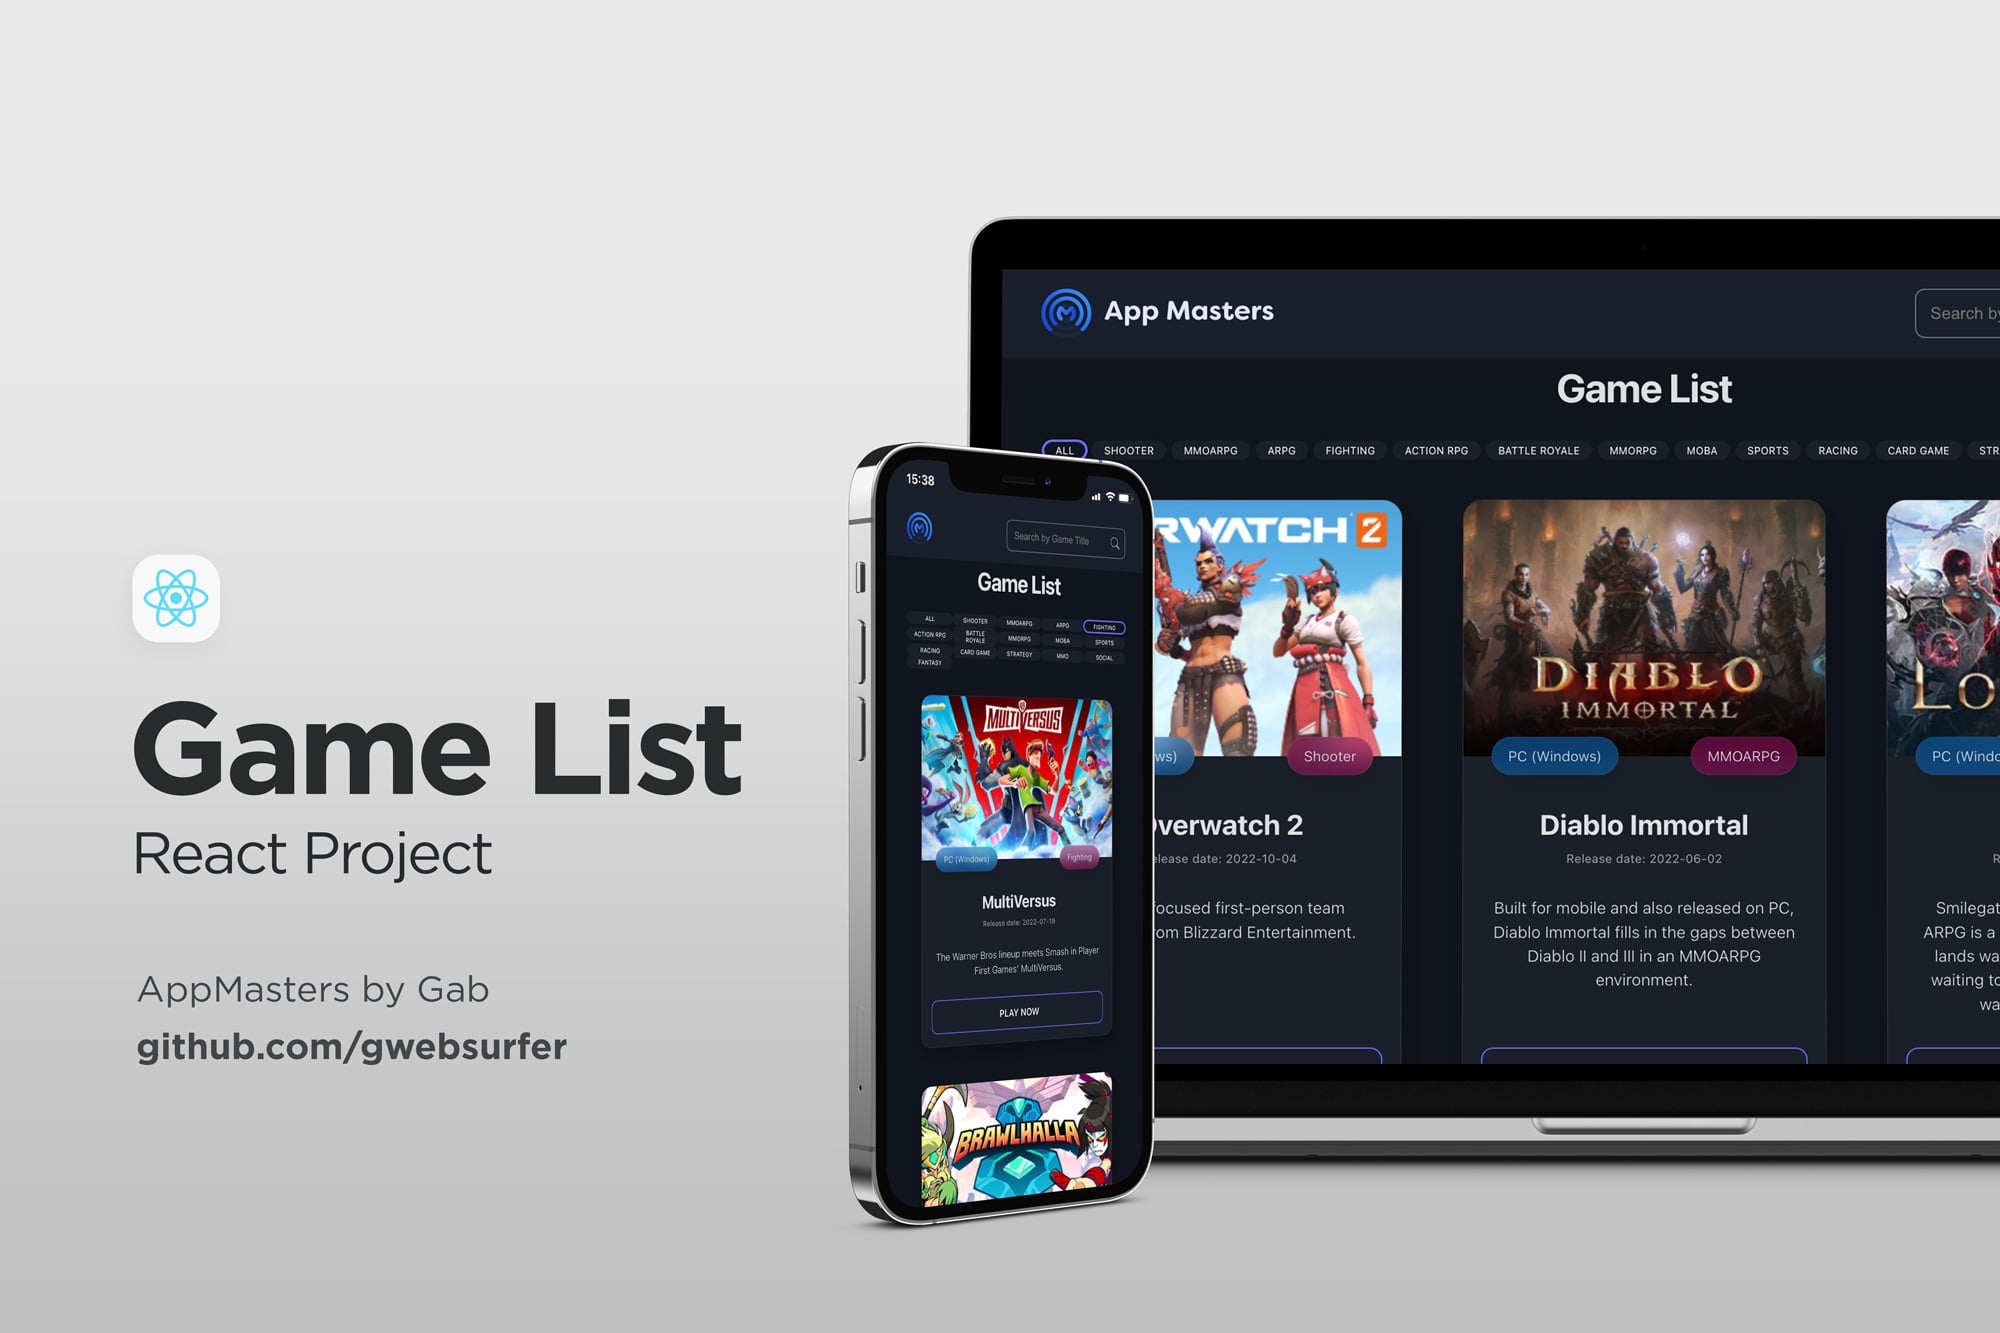
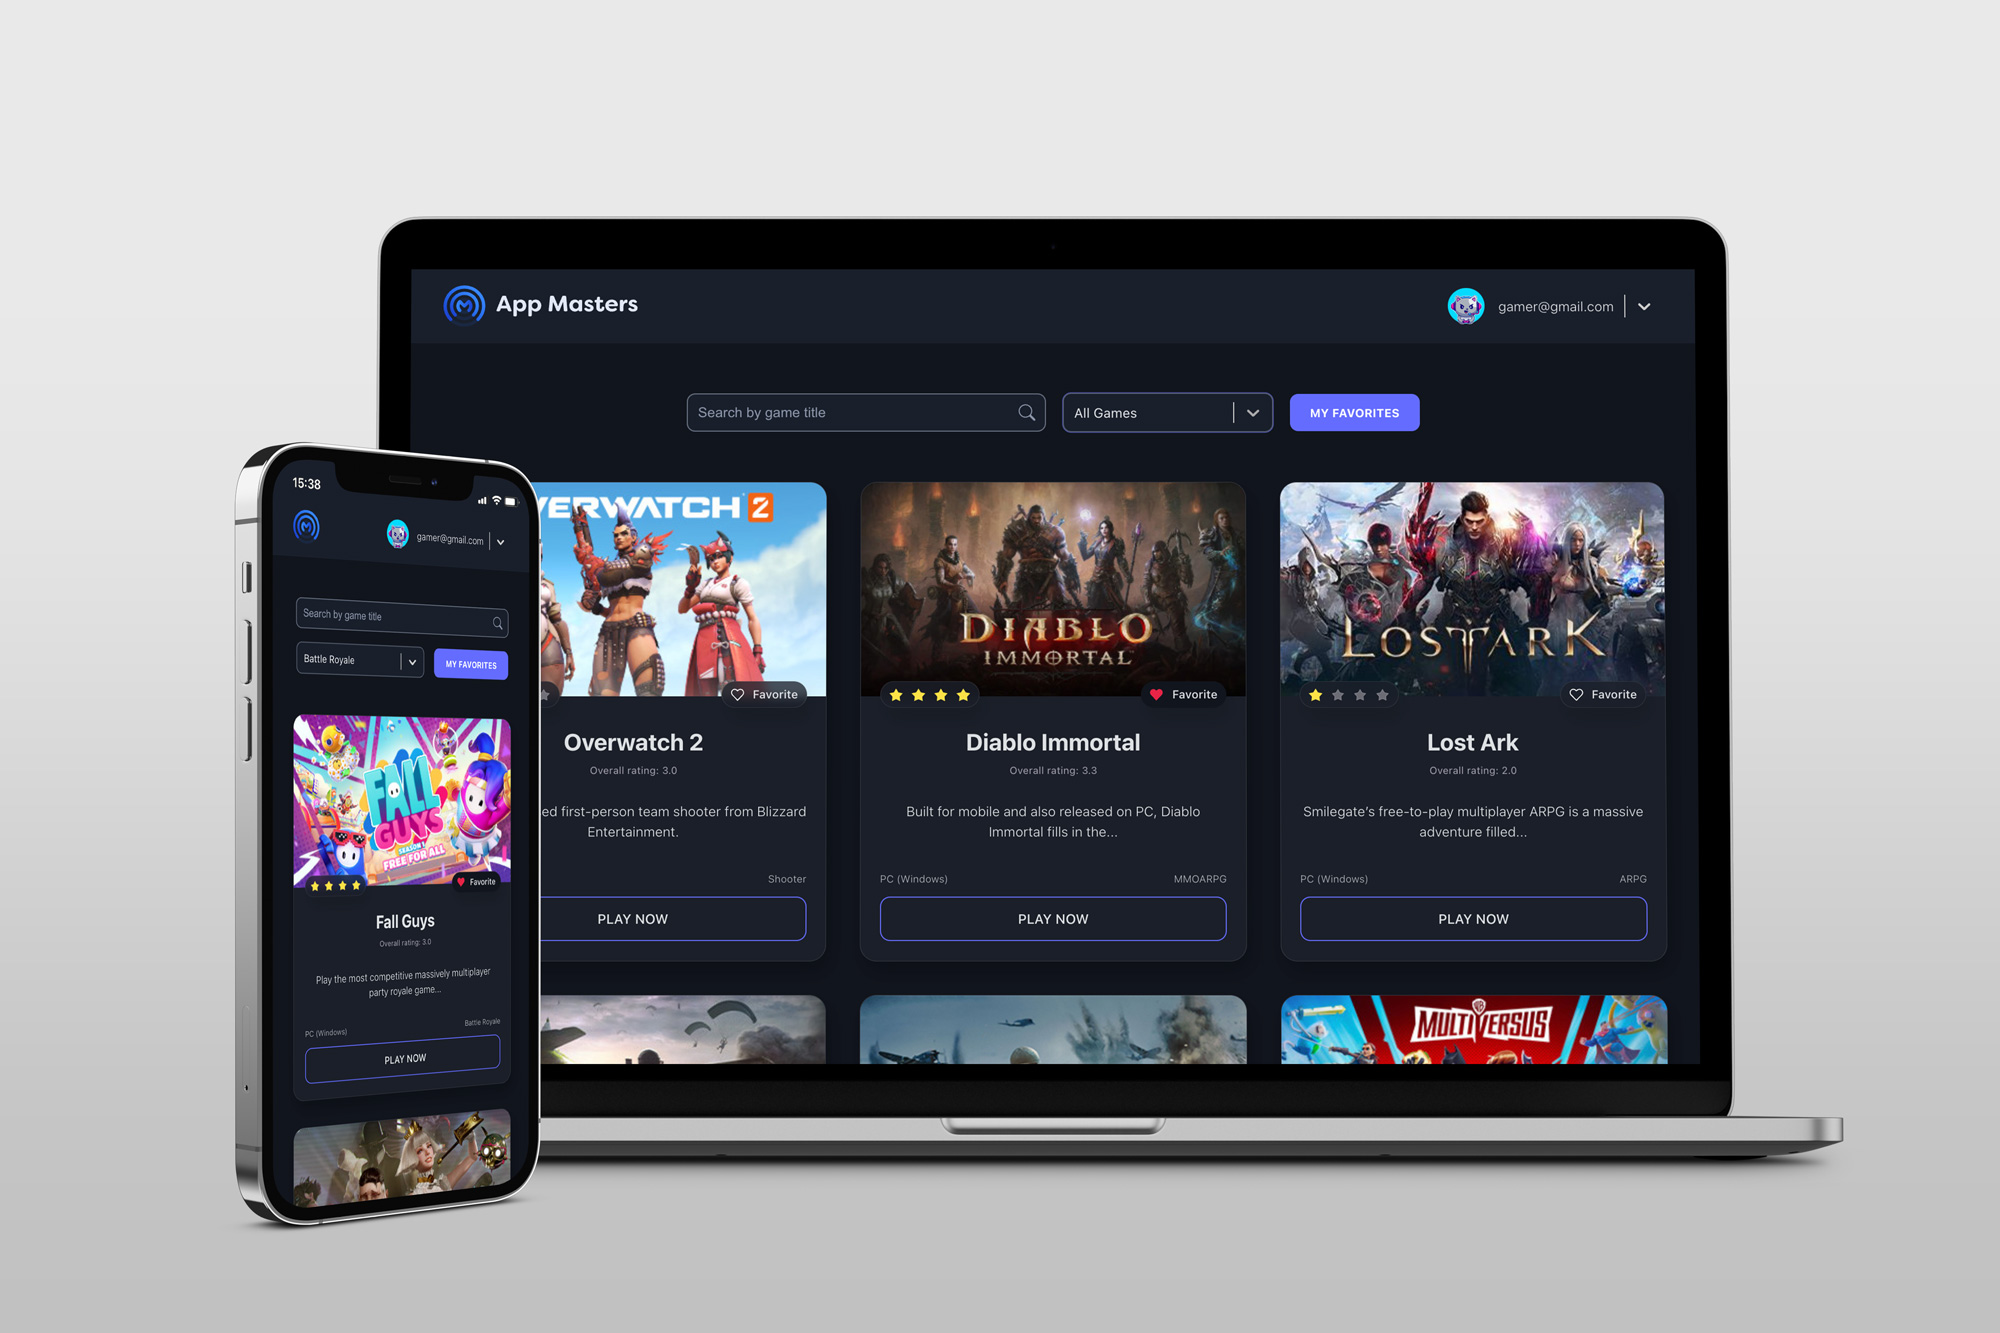
style: correct colors and sizes

diff --git a/src/components/GameList.jsx b/src/components/GameList.jsx
@@ -1,9 +1,12 @@
-import { useEffect, useState } from 'react';
+import { useCallback, useEffect, useState } from 'react';
+import { useNavigate } from 'react-router-dom';
 import Select, { components } from 'react-select';
 import { getDoc, doc, setDoc } from "firebase/firestore";
 import { auth, db } from "../services/firebaseConfig";
 import { NavBar } from './NavBar';
 import { Card } from "./Card";
+import { Button } from './Button';
+import { Footer } from './Footer';
 import searchIcon from "../assets/search.svg";
 import './GameList.css'
 
@@ -11,31 +14,33 @@ export const GameList = ({ gameList }) => {
 
   const [isUserLoggedIn, setIsUserLoggedIn] = useState(false);
   const [searchTerm, setSearchTerm] = useState('');
-  const [selectedGenre, setSelectedGenre] = useState('All');
+  const [selectedGenre, setSelectedGenre] = useState({ value: 'All Games', label: 'All Games' });
   const [filteredData, setFilteredData] = useState(gameList);
   const [userData, setUserData] = useState(null);
   const [userDocId, setUserDocId] = useState(null);
+  const [favoritesMode, setFavoritesMode] = useState(false);
+  const navigate = useNavigate(); 
 
   const colourStyles = {
     control: (styles, state) => ({ 
       ...styles, 
-      width: '160px',
+      width: '200px',
       backgroundColor: 'rgb(26, 31, 43)',
       color: 'rgba(246, 248, 251, 0.87)',
       fontSize: '0.8rem',
-      fontWeight: 400,
+      fontWeight: '400',
       boxShadow: state.isFocused ? '0 0 0 1px rgb(100, 108, 255)' : '',
       border: '1px solid rgba(138, 148, 168, 0.5)',
       borderRadius: '0.5rem',
     }),
     option: (base, state) => ({
       ...base,
-      color: state.isFocused ? 'rgb(255, 255, 255)' : 'rgba(246, 248, 251, 0.87)',
-      backgroundColor: state.isFocused ? 'rgba(26, 31, 43, 1)' : 'rgba(26, 31, 43, 0.7)',
+      color: state.isDisabled ? 'rgba(246, 248, 251, 0.4)' : 'rgba(246, 248, 251, 0.87)' && state.isFocused ? 'rgb(255, 255, 255)' : 'rgba(246, 248, 251, 0.87)',
+      backgroundColor: state.isFocused ? 'rgb(17, 21, 29)' : 'rgba(26, 31, 43, 0.7)',
       borderBottom: '0.05rem solid rgba(246, 248, 251, 0.05)',
-      cursor: 'pointer',
-      fontSize: '0.8rem',
-      fontWeight: 400,
+      cursor: state.isDisabled ? 'default' : 'pointer',
+      fontSize: state.isDisabled ? '0.6rem' : '0.8rem',
+      fontWeight: '400',
     }),
     singleValue: (styles) => ({
       ...styles,
@@ -47,7 +52,7 @@ export const GameList = ({ gameList }) => {
     }),
   };
 
-  const uniqueGenres = ['All Games', ...new Set(gameList?.map((game) => game.genre))];
+  const uniqueGenres = [...new Set(gameList?.map((game) => game.genre))];
 
   const genreCount = {};
   gameList.forEach((game) => {
@@ -60,40 +65,71 @@ export const GameList = ({ gameList }) => {
 
   genreCount['All Games'] = gameList.length;
 
-  const genreOptions = uniqueGenres.map(genre => ({ 
-    value: genre, 
-    label: genre,
-  }));
+  const genreOptions = [
+    { value: 'All Games', label: 'All Games' },
+    { value: '', label: 'GENRE LIST', isDisabled: true },
+    ...uniqueGenres.map(genre => ({ value: genre, label: genre })),
+  ];  
 
   const CustomOption = ({ data, ...props }) => (
     <components.Option {...props}>
       <div style={{ display: 'flex', justifyContent: 'space-between' }}>
         {data.label}
+        {data.isDisabled ? null : (
         <span style={{ backgroundColor: 'rgb(100, 108, 255)', borderRadius: '4px', padding: '0 5px' }}>
           {genreCount[data.value]}
         </span>
+        )}
       </div>
     </components.Option>
   );
 
   const genreFilter = (selectedOption) => {
-    if (selectedOption.value === 'All Games') {
-      setFilteredData(gameList);
-    } else {
-      setFilteredData(gameList.filter((game) => game.genre === selectedOption.value))
+    let filteredGames = gameList;
+    
+    if (selectedOption.value !== 'All Games') {
+      filteredGames = filteredGames.filter((game) => game.genre === selectedOption.value);
     }
+    
+    if (favoritesMode) {
+      filteredGames = filteredGames.filter((game) => userData.isFavorite.includes(game.id));
+    }
+    
+    setFilteredData(filteredGames);
     setSelectedGenre(selectedOption);
+    filterData();
   };
 
+  const filterData = useCallback(() => {
+    let filteredGames = gameList;
+  
+    if (searchTerm) {
+      filteredGames = filteredGames.filter((game) => game.title.toLowerCase().includes(searchTerm.toLowerCase()));
+    }
+  
+    if (selectedGenre.value !== 'All Games') {
+      filteredGames = filteredGames.filter((game) => game.genre === selectedGenre.value);
+    }
+  
+    if (favoritesMode && userData) {
+      filteredGames = filteredGames.filter((game) => userData.isFavorite.includes(game.id));
+    }
+  
+    setFilteredData(filteredGames);
+  }, [favoritesMode, userData, gameList, selectedGenre.value, searchTerm]);
+  
   const handleSearchChange = (e) => {
     const searchTerm = e.target.value;
     setSearchTerm(searchTerm);
   };
+
+  useEffect(() => {
+    filterData();
+  }, [filterData, gameList, searchTerm]);
   
   const checkUserDoc = async () => {
     const userUID = auth?.currentUser?.uid;
     const userRef = doc(db, "users", userUID);
-
     const userSnapshot = await getDoc(userRef);
 
     if (userSnapshot.exists()) {
@@ -125,20 +161,13 @@ export const GameList = ({ gameList }) => {
     return () => unsubscribe();
   }, []);
 
-  useEffect(() => {
-    const filteredResults = gameList?.filter((game) =>
-      game.title.toLowerCase().includes(searchTerm.toLowerCase())
-    );
-    setFilteredData(filteredResults);
-  }, [gameList, searchTerm]);
-
   return (
     <>
       <NavBar setIsUserLoggedIn={setIsUserLoggedIn} />
 
       <div className="search-filter">
         <div className="search-bar">
-          <input type="text" placeholder='Search by game title' onKeyDown={handleSearchChange} />
+          <input type="text" placeholder='Search by game title' onChange={handleSearchChange} />
           <img className='search-icon' src={searchIcon} alt="" />
         </div>
 
@@ -151,8 +180,20 @@ export const GameList = ({ gameList }) => {
             isSearchable={false}
             placeholder='Genre'
             components={{ Option: CustomOption }}
+            isOptionDisabled={(option) => option.isDisabled}
           />
         </div>
+
+        <Button classType="show-favorites-btn" onClickFunction={() => { 
+          if (!isUserLoggedIn) {
+            navigate('/auth')
+          } else {
+            setFavoritesMode(!favoritesMode);
+            filterData();
+          }
+        }}>
+          {favoritesMode ? 'Show All' : 'My Favorites'}
+        </Button>
       </div>
       
       <div className='gameList'>
@@ -168,6 +209,8 @@ export const GameList = ({ gameList }) => {
         ))}
         </div>
       </div>
+
+      <Footer />
     </>
   );
 };

diff --git a/src/components/NavBar.jsx b/src/components/NavBar.jsx
@@ -17,28 +17,24 @@ export const NavBar = ({ setIsUserLoggedIn }) => {
   const user = auth?.currentUser;
 
   const options = [
-    { value: "favorites", label: "Favorites" },
+    { value: "my-account", label: "My Account", isDisabled: true },
     { value: "logout", label: "Logout" },
   ];
 
   const handleSelectChange = (selectedOption) => {
     if (selectedOption.value === "logout") {
       handleLogout();
-    } else if (selectedOption.value === "favorites") {
-      navigate('/favorites');
+    } else if (selectedOption.value === "my-account") {
+      navigate('/');
     }
   };
 
-  console.log((auth?.currentUser?.uid));
-  console.log(user);
-
   const handleLogout = async () => {
     try {
-      console.log('logout')
       await signOut(auth);
       setIsUserLoggedIn(false);
     } catch (err) {
-      console.error(err);
+      alert('An error occurred while logging out. Please try again later.', err);
     }
   };
 
@@ -67,10 +63,10 @@ export const NavBar = ({ setIsUserLoggedIn }) => {
                 }),
                 option: (base, state) => ({
                   ...base,
-                  color: state.isFocused ? 'rgba(246, 248, 251, 0.67)' : 'rgba(246, 248, 251, 0.87)',
-                  backgroundColor: state.isFocused ? 'rgb(17, 21, 29)' : 'rgb(26, 31, 43)',
-                  borderTop: '0.05rem solid rgba(246, 248, 251, 0.1)',
-                  cursor: 'pointer',
+                  color: state.isDisabled ? 'rgba(246, 248, 251, 0.4)' : (246, 248, 251, 0.87) && state.isFocused ? 'rgb(255, 255, 255)' : 'rgba(246, 248, 251, 0.87)',
+                  backgroundColor: state.isDisabled ? 'rgb(26, 31, 43)' : 'rgb(26, 31, 43)' && state.isFocused ? 'rgb(17, 21, 29)' : 'rgb(26, 31, 43)',
+                  borderBottom: '0.05rem solid rgba(246, 248, 251, 0.05)',
+                  cursor: state.isDisabled ? 'default' : 'pointer',
                 }),
                 placeholder: (base) => ({
                   ...base,
@@ -78,14 +74,18 @@ export const NavBar = ({ setIsUserLoggedIn }) => {
                   color: 'rgba(246, 248, 251, 0.87)',
                   fontWeight: 300,
                 }),
-                control: (baseStyles, state) => ({
-                  ...baseStyles,
+                control: (styles, state) => ({
+                  ...styles,
                   backgroundColor: 'rgb(26, 31, 43)',
                   group: 'rgb(26, 31, 43)',
                   background: state.menuIsOpen ? 'rgb(26, 31, 43)' : '',
                   borderColor: state.isFocused ? 'grey' : '',
                   border: 'none',
                   cursor: 'pointer',
+                }),
+                menu: (provided) => ({
+                  ...provided,
+                  backgroundColor: 'rgba(26, 31, 43, 0.9)',
                 }),
               }}
             />

diff --git a/src/components/Card.jsx b/src/components/Card.jsx
@@ -102,7 +102,7 @@ export const Card = ({ game, userDocId, userData, isUserLoggedIn }) => {
           setIsFavoriteClicked(false);
         }, 300);
       } catch (error) {
-        console.error("Erro ao favoritar o jogo:", error);
+        alert('Failed to favorite the game. Please try again later.', error);
       }
     }
   };
@@ -163,7 +163,7 @@ export const Card = ({ game, userDocId, userData, isUserLoggedIn }) => {
         setRating(ratingValue);
         
       } catch (error) {
-        console.error("Erro ao avaliar o jogo:", error);
+        alert('Error rating the game. Please try again later.', error);
       }
     }
   };
@@ -184,7 +184,7 @@ export const Card = ({ game, userDocId, userData, isUserLoggedIn }) => {
           <div className='rating'>
             {[...Array(4)].map((_, index) => {
               return (
-                <img
+                <motion.img
                   key={index}
                   src={(isUserLoggedIn && index < currentRating) || index < hoverRating ? starFilledIcon : starIcon}
                   alt='Rate icon'

diff --git a/src/components/GameList.css b/src/components/GameList.css
@@ -1,6 +1,6 @@
 .container-list {
   margin: 0 auto;
-  padding: 2rem 2rem;
+  padding: 3rem 2rem;
   width: fit-content;
   display: grid;
   grid-template-columns: 1fr 1fr 1fr;
@@ -9,7 +9,7 @@
 
 .search-filter {
   margin: 0 auto;
-  padding-top: 2rem;
+  padding-top: 3rem;
   max-width: 1160px;
   display: flex;
   align-items: center;
@@ -43,6 +43,24 @@
   transform: translateY(-50%);
   width: 16px;
   height: 16px;
+}
+
+.show-favorites-btn {
+  border-radius: 0.5rem;
+  border: none;
+  padding: 0.7rem 1.2rem;
+  font-size: 0.7rem;
+  font-weight: 700;
+  font-family: inherit;
+  color: rgba(255, 255, 255, 1);
+  background-color: rgb(100, 108, 255);
+  transition: all 0.25s ease;
+  text-transform: uppercase;
+}
+
+.show-favorites-btn:hover {
+  opacity: 0.8;
+  cursor: pointer;
 }
 
 @media (min-width: 768px) and (max-width: 1023px) {

diff --git a/src/components/Footer.jsx b/src/components/Footer.jsx
@@ -1,0 +1,11 @@
+import './Footer.css';
+
+export const Footer = () => {
+  const currentYear = new Date().getFullYear();
+
+  return (
+    <div className='footer-area'>
+      Developed by <a href='https://github.com/gwebsurfer' target='_blank' rel='noopener noreferrer' className='footer-link'> Gab </a> © {currentYear}
+    </div>
+  );
+}

diff --git a/src/components/Footer.css b/src/components/Footer.css
@@ -1,0 +1,16 @@
+.footer-area {
+  margin: 0;
+  padding: 1rem 2rem;
+  display: flex;
+  font-size: 0.8rem;
+  flex-direction: row;
+  justify-content: center;
+  align-items: center;
+  position: sticky;
+  background-color: rgb(26, 31, 43);
+}
+
+.footer-link {
+  margin-left: 5px;
+  margin-right: 5px;
+}

diff --git a/src/pages/Auth/index.jsx b/src/pages/Auth/index.jsx
@@ -30,8 +30,7 @@ export function Auth() {
 
   async function handleSignUp(e) {
     e.preventDefault();
-    const savedUser = await createUserWithEmailAndPassword(email, password);
-    console.log(savedUser);
+    await createUserWithEmailAndPassword(email, password);
     navigate("/");
   }
 
